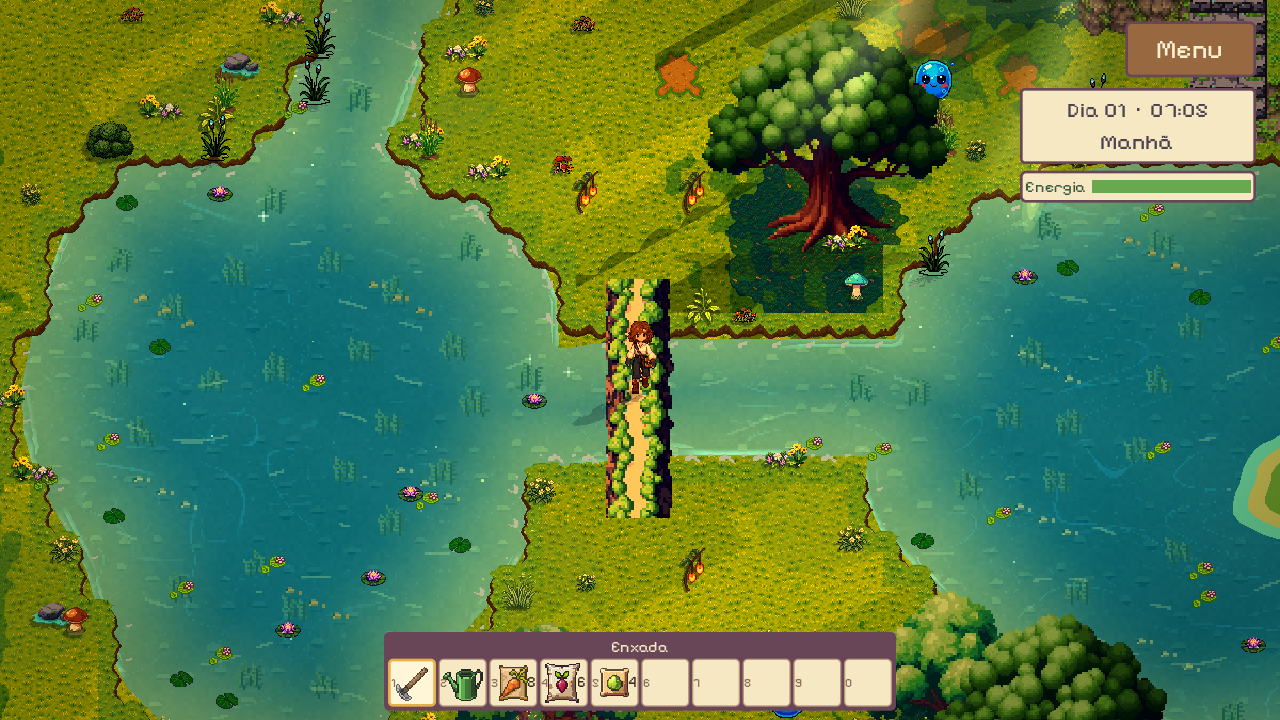
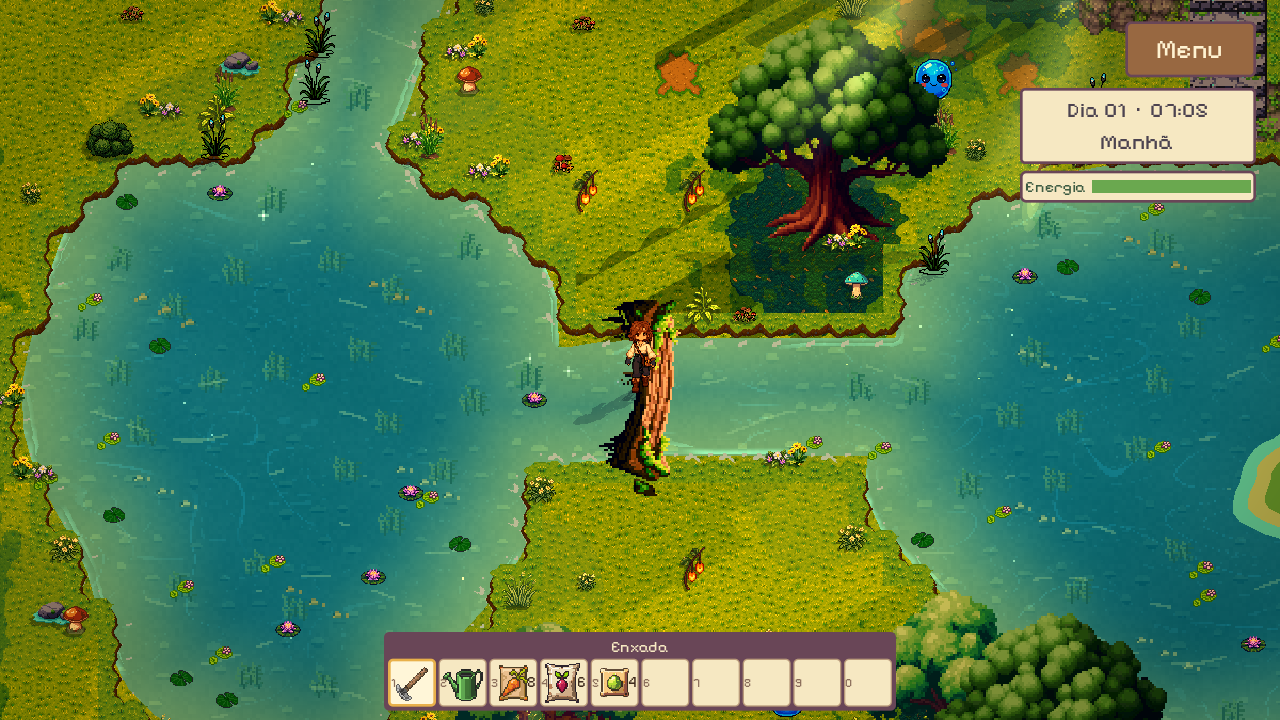
feat(visual): arco de raízes aprovado em todas as travessias do Vale
Usuário aprovou só o arco de raízes largo (novo sprite PixelLab 128x48);
troncos, pedras e istmo removidos. Verticais usam o arco girado 90° até
haver uma versão vertical aprovada. test_native_bridges: 5 travessias, 0 falhas.

diff --git a/docs/ASSET_MANIFEST.md b/docs/ASSET_MANIFEST.md
@@ -210,12 +210,8 @@ Gerado no PixelLab (`create_map_object`, 128×128, high top-down, high detail, d
 
 ### Pontes naturais do Vale (mundo sem humanos)
 
-| Arquivo | Tamanho | Local | SHA-256 |
-|---|---|---|---|
[5 lines of base64/hex data omitted]
+| Arquivo | Tamanho | SHA-256 |
+|---|---|---|
[1 lines of base64/hex data omitted]
 
-Gerados no PixelLab (`create_map_object`, high top-down, high detail, detailed shading, selective outline; 7 gerações, 5 aprovadas: o primeiro tronco saiu fino demais e as primeiras pedras pareciam lajes cortadas). Pós-processo: recorte à caixa visível. Desenhados em escala 2 por `scripts/world/natural_bridges.gd`, que esconde as tábuas antigas; a travessia continua pelos buracos de colisão de `BRIDGES`.
+Arco de raízes entrelaçadas gerado no PixelLab (`create_map_object`, 128×48, high top-down, high detail, detailed shading, selective outline), recortado à caixa visível. Único aprovado pelo usuário: troncos caídos, pedras, istmo e versões verticais de raízes foram rejeitados (13 gerações no total). Usado nas 5 travessias por `scripts/world/natural_bridges.gd` (escala 2; girado 90° nas verticais, espelhado em alternância).
